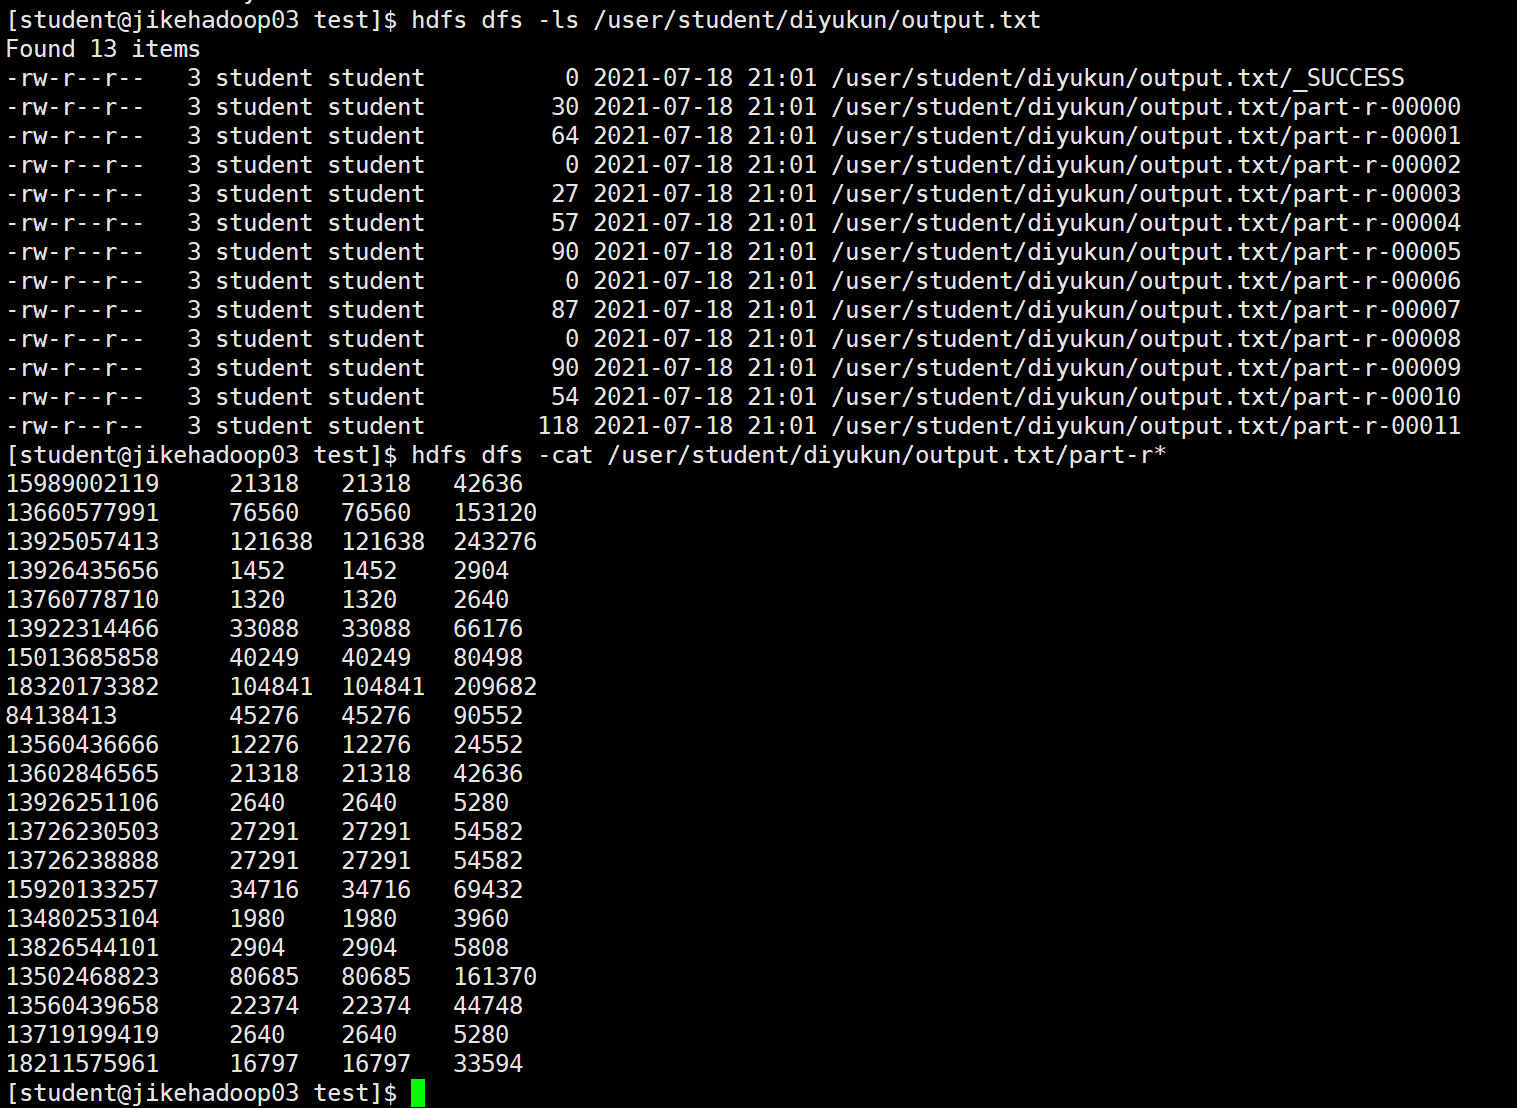
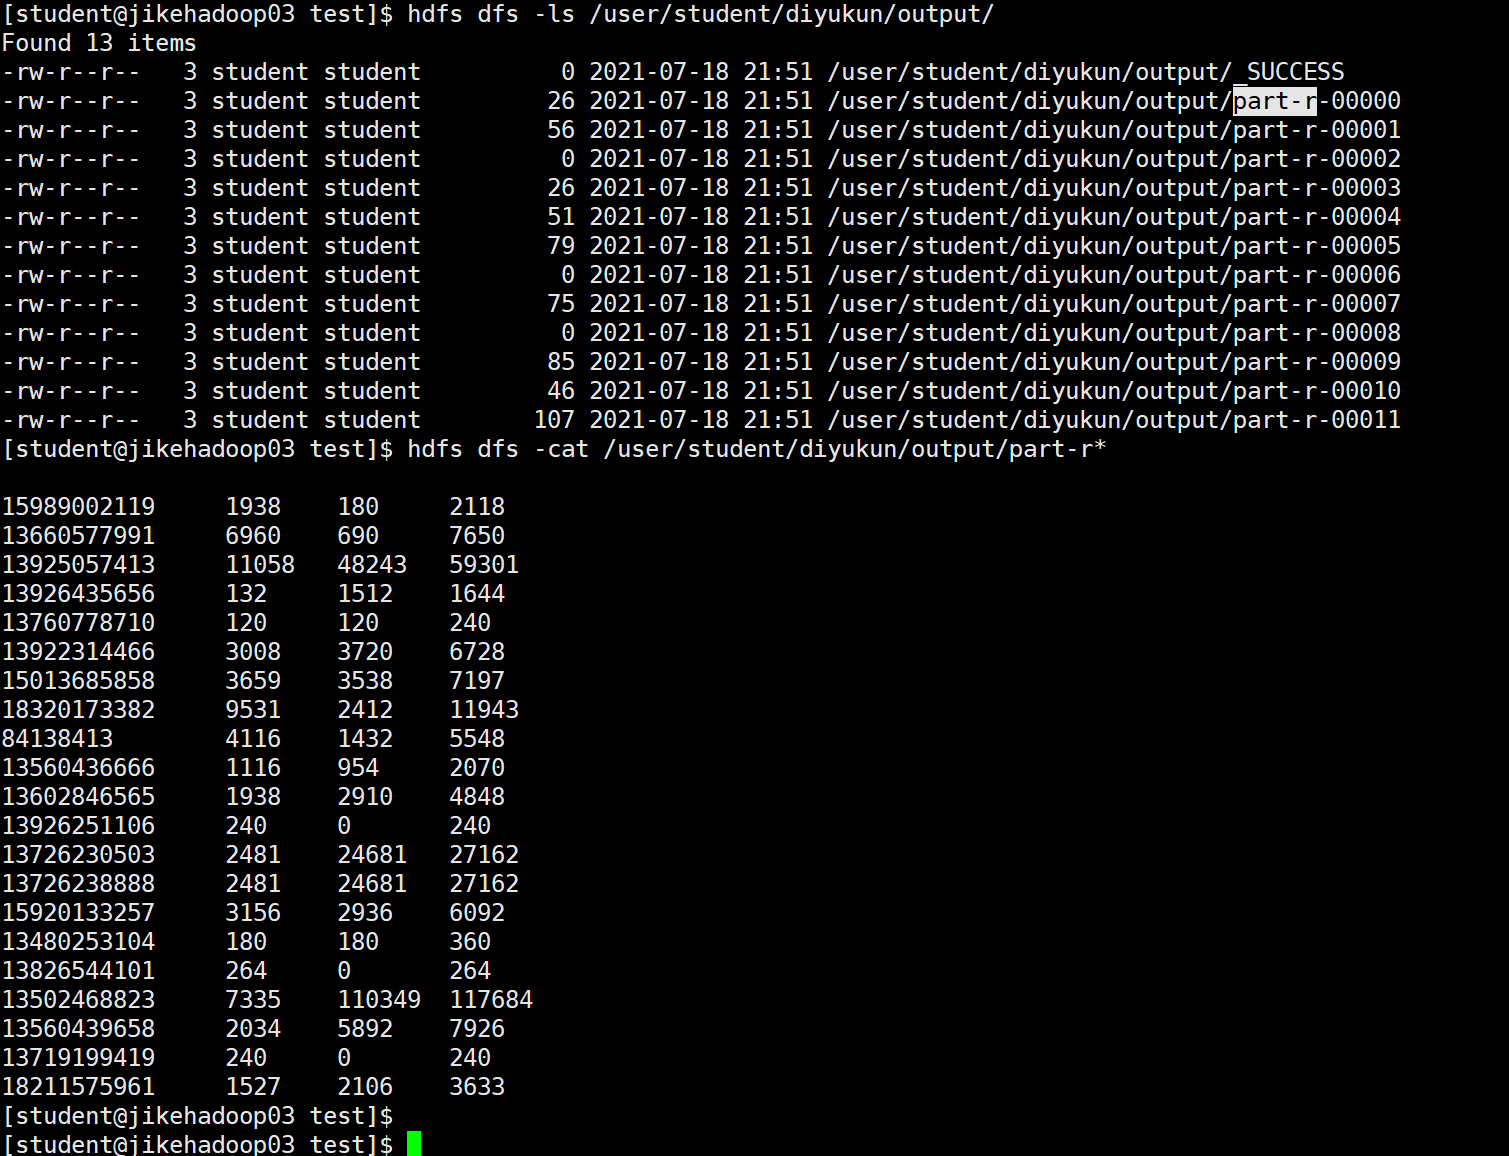
极客时间第一次作业代码以及结果图片

Changed region(s): [[0.0, 0.0, 0.9655, 1.0]]

diff --git a/src/main/java/com/student/works/MapperSplit.java b/src/main/java/com/student/works/MapperSplit.java
@@ -7,22 +7,20 @@ import org.apache.hadoop.mapreduce.Mapper;
 import java.io.IOException;
 
 public  class MapperSplit extends Mapper<LongWritable, Text, Text, FlowBean> {
+    FlowBean output = new FlowBean();
+    Text phone = new Text();
     protected void map(LongWritable key, Text value, Context context) throws IOException, InterruptedException {
+        System.out.println(value.toString());
         String[] words = value.toString().split("\t");
-        FlowBean outputvalue = new FlowBean();
-
-        for (String word : words) {
-            //手机号
-            String phone = words[1];
-            //上行流量
-            Long upFlow = Long.valueOf(words[8]);
-            //下行流量
-            Long downFlow =  Long.valueOf(words[8]);
-            //封装到FlowBean对象中
-            outputvalue.set(upFlow,downFlow);
-            //输出
-            context.write(new Text(phone), outputvalue);
-        }
+        phone.set(words[1]);
+        //上行流量
+        Long upFlow = Long.valueOf(words[8]);
+        //下行流量
+        Long downFlow =  Long.valueOf(words[9]);
+        //封装到FlowBean对象中
+        output.set(upFlow,downFlow);
+        //输出
+        context.write(phone, output);
     }
 
 }

diff --git a/src/main/java/com/student/works/MyStudentWorks.java b/src/main/java/com/student/works/MyStudentWorks.java
@@ -25,7 +25,7 @@ public class MyStudentWorks{
             job.setOutputValueClass(FlowBean.class);
 
             FileInputFormat.setInputPaths(job, new Path("/user/student/diyukun/HTTP_20130313143750.dat"));
-            FileOutputFormat.setOutputPath(job, new Path("/user/student/diyukun/output.txt"));
+            FileOutputFormat.setOutputPath(job, new Path("/user/student/diyukun/output"));
 
             boolean b = job.waitForCompletion(true);
             System.exit(b ? 0 : 1);
